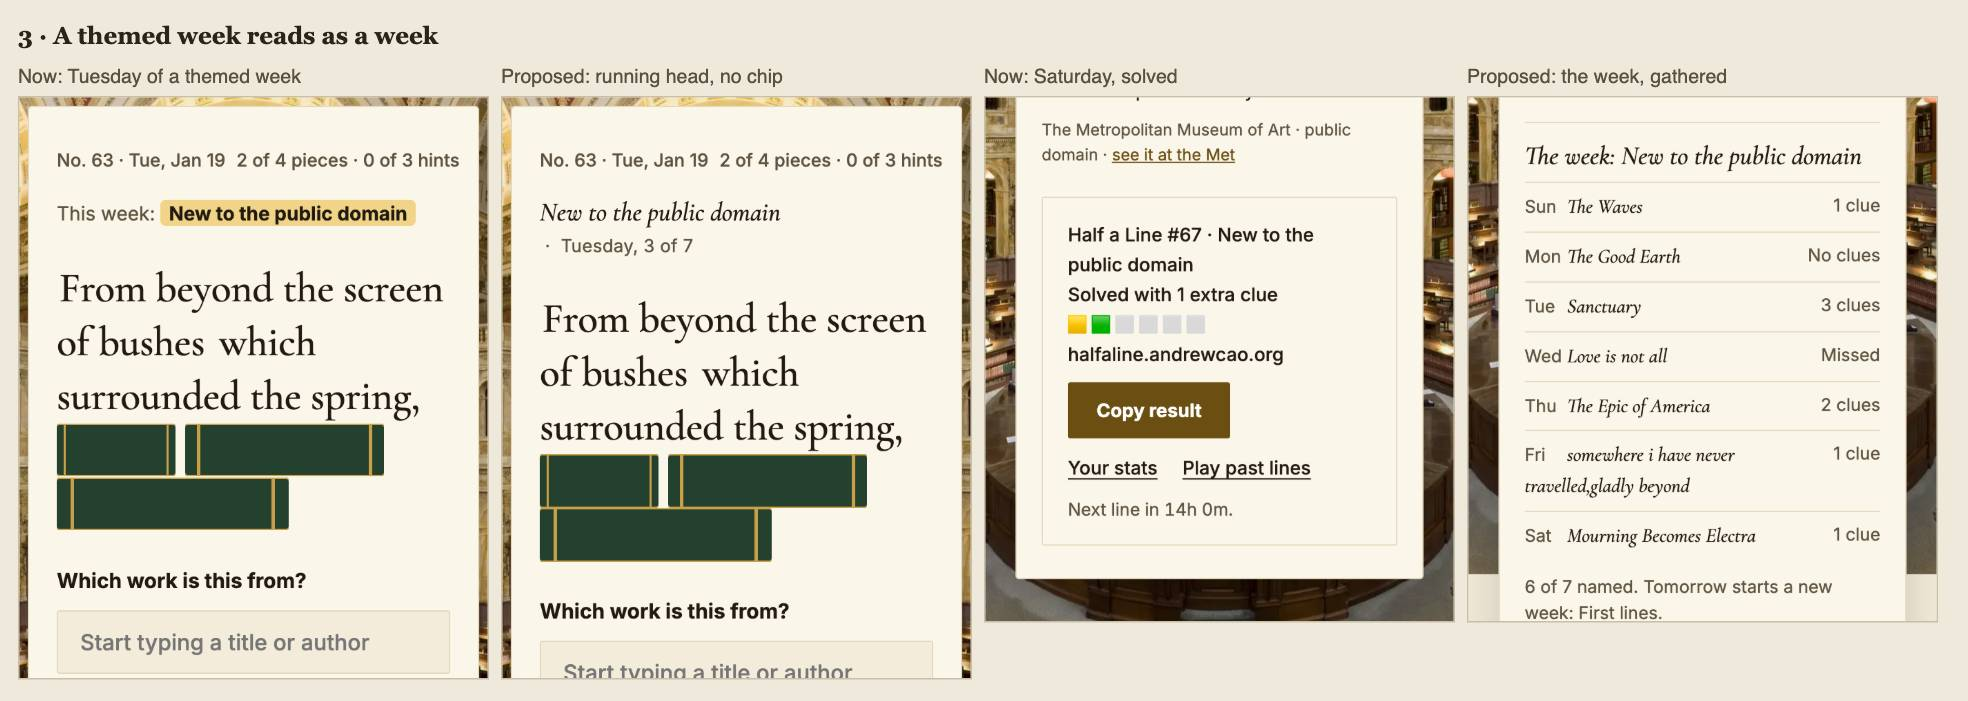
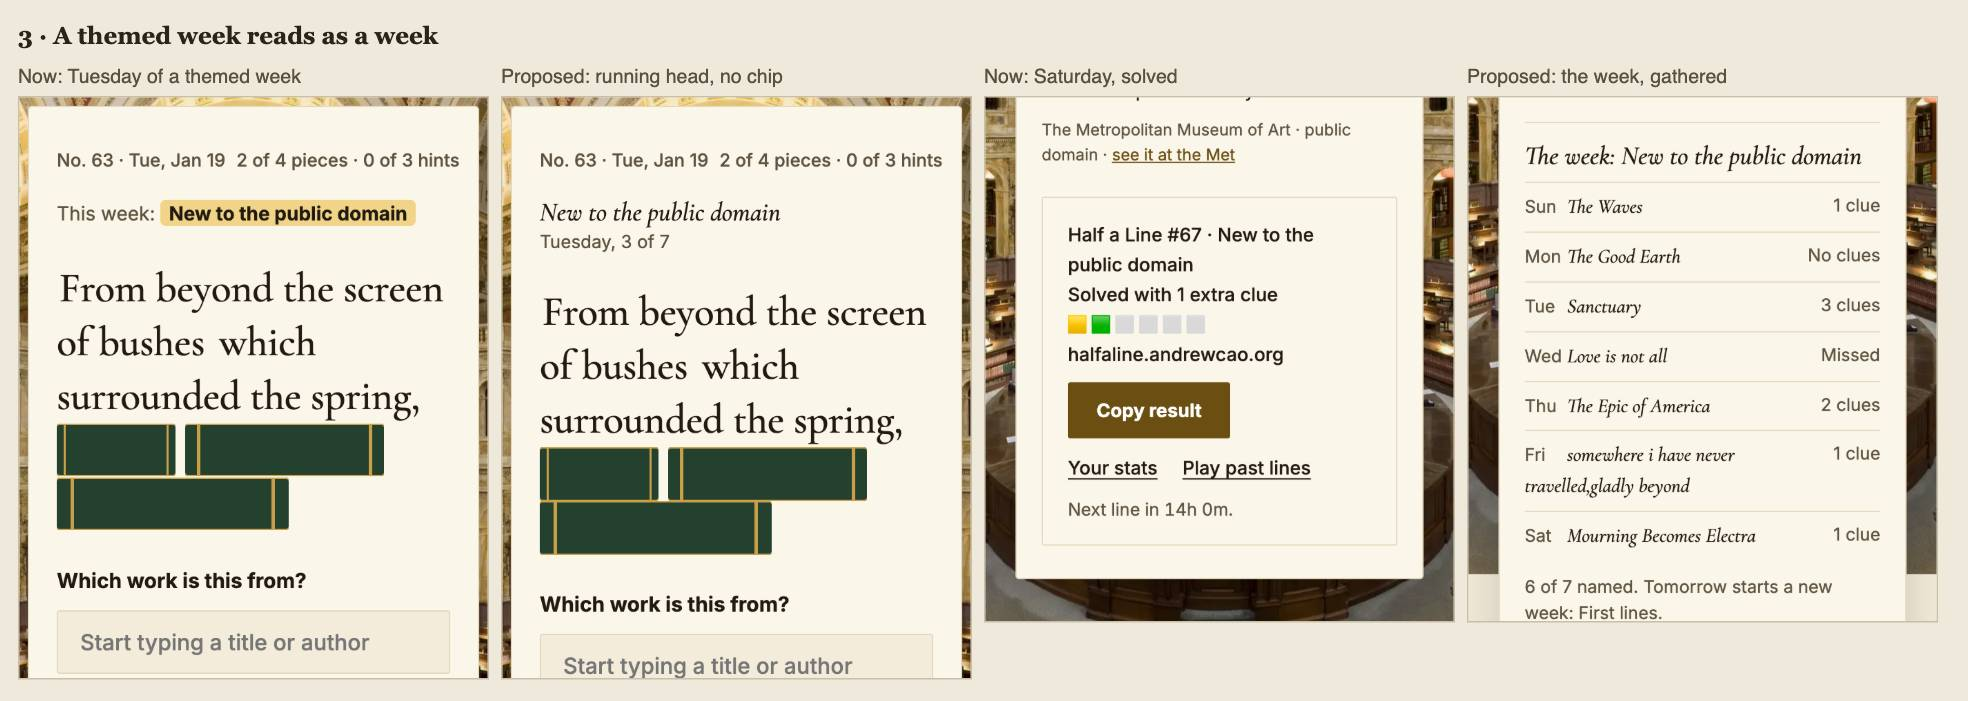
Audit 2: Fable review pass. New item 4 (page left open past midnight stays on yesterday), focus fix folded into tidy-up, accurate byline, cleaner themed-week mockup

diff --git a/docs/fable-audit-2-2026-11.md b/docs/fable-audit-2-2026-11.md
@@ -1,13 +1,13 @@
 # Half a Line: second craft audit
 
-22 November 2026, by Claude (Fable). Stage 1: a proposal for Andrew to pick from. Nothing in `site/` has changed.
+22 November 2026, by Claude: played and drafted on Opus, then reviewed, re-tested and revised on Fable the same day. Stage 1: a proposal for Andrew to pick from. Nothing in `site/` has changed.
 
 Builds on `docs/fable-audit-2026-11.md` (20 Nov; all six craft items and the four content fixes are live) and does not repeat it, `docs/visual-assessment-2026-11.md` or `docs/ux-assessment-2026-11.md`.
 
-**How it was checked:** a local copy of `main` (`f48ec43`, the commit tagged `published`), played in headless Chrome at 375 × 812 and 1440 × 900, with the clock set to pretend days: today (day 5), 17–23 January 2027 (the first themed week), and that Saturday with the whole week played. Library, Coast, Night and High contrast, light and dark; keyboard only; reduced motion on. Wrong guesses, Next clue, running out of clues, a win, the bonus, the share text, Stats, Settings. The title box was tested with 38 things a player might type. **Not checked:** a real phone, a screen reader, Windows High Contrast.
+**How it was checked:** a local copy of `main` (`f48ec43`, the commit tagged `published`), played in headless Chrome at 375 × 812 and 1440 × 900, with the clock set to pretend days: today (day 5), 17–23 January 2027 (the first themed week), and that Saturday with the whole week played. Library, Coast, Night and High contrast, light and dark; keyboard only; reduced motion on. Wrong guesses, Next clue, running out of clues, a win, the bonus, the share text, Stats, Settings, and a page left open past midnight. The title box was tested with 38 things a player might type. **Not checked:** a real phone, a screen reader, Windows High Contrast.
 
 ## Verdict
-The game now looks finished; what's left is how it *answers* you. The title box rejects ordinary misspellings and everyday names, a wrong guess is acknowledged at the bottom of the card, the last guess arrives without warning, and a themed week never feels like a week. All of it is small, and none of it is a new feature.
+The game now looks finished; what's left is how it *answers* you. The title box rejects ordinary misspellings and everyday names, a wrong guess is acknowledged at the bottom of the card, the last guess arrives without warning, a page left open overnight never shows the new line, and a themed week never feels like a week. All of it is small, and none of it is a new feature.
 
 ## Proposal, ranked
 
@@ -16,11 +16,11 @@ The game now looks finished; what's left is how it *answers* you. The title box 
 | 1 | **The title box forgives typos and everyday names.** When nothing matches, offer the closest title ("Closest match: Frankenstein"). Accept common short names ("Alice in Wonderland", "Huck Finn", "War & Peace", "Tale of 2 Cities"). List titles that *start* with what you typed before author matches. | Of 38 test entries, these found nothing and showed "No title matches": frankenstien, mary shelly, pride and predjudice, odysey, alice in wonderland, huck finn, war & peace, tale of 2 cities. A player who knows the answer and is told "no match" feels the game is wrong. Also "anna" lists *Black Beauty* (Anna Sewell) above *Anna Karenina*. A spelling slip is not counted as a wrong guess today, and still wouldn't be. Mockup: `docs/mockups/shots/q-title-box.jpg`. | **Strong**: fixes a real flaw, no new look. |
 | 2 | **A wrong guess answers where you're looking, and the last guess is named.** Show "Not *Dracula*. A new hint is above." directly under the title box, not at the bottom of the card below the easy-mode link. When the clues run out, the label reads "Last guess. Which work is this from?" | Today the only sign of a wrong guess is a small grey "Not Dracula" under "Too hard?". And when "Next clue" disappears, nothing says the next wrong guess ends the game: in testing, the fifth wrong guess went straight to "Not this time." Losing without warning is the sharpest moment to get wrong. Mockup: `q-wrong-and-last-guess.jpg`. | **Strong** |
 | 3 | **A themed week reads as a week.** Replace the yellow highlighted "This week: **New to the public domain**" with a quiet running head in the look's italic: "*New to the public domain* · Tuesday, 3 of 7". On Saturday's solved screen, gather the week: seven days, seven works, your result for each, and "Tomorrow starts a new week: First lines." | The highlighted pill is one of the no-vibe-coded tells, and its yellow is the yellow that means "new piece" in the game, so it reads like a clue. More importantly, nothing tells a player where they are in the week or rounds it off; the theme only shows in Archive headings. The Saturday list is the one reward that spans days, and a reason to come back on Sunday. Mockup: `q-themed-week.jpg`. | **Strong** for the running head; **Lean** for the Saturday list (small, but new). |
-| 4 | **Keyboard focus lands on the answer.** After a win or a loss, move focus to the work's title; after the bonus, to the note. | Measured: after the winning guess and after choosing a bonus word, keyboard focus falls back to the page itself, so a keyboard player must Tab from the top again. (Screen readers already hear "Correct: Frankenstein.") | **Strong**: tiny, invisible fix. |
+| 4 | **The new line arrives by itself.** When midnight passes, or the player comes back to an open tab or the Home Screen app, a finished screen offers “Today’s line is ready” and Today shows the new day. | Tested with the clock: solve at 11:58 pm, wait, and at 12:08 am the page still shows yesterday’s line, and the countdown has restarted at “Next line in 23h 52m”, which is false; the new line is already there. Phones keep tabs and Home Screen apps open for days, so a returning player can meet yesterday’s screen and a wrong clock. | **Strong**: a real fault on the return visit. |
 | 5 | **Your streak on the solved screen.** Above "Next line in 14h", one line: "3 days in a row." (only when the streak is 2 or more). | The streak is the main thing that pulls people back to a daily game, and here it lives only on the Stats page. One plain line, no flame or badge. | **Lean**: some players dislike streak pressure; it shows only to those who have one. |
 | 6 | **Right author, wrong work.** "Not *Bleak House*, though you have the right author." Still counts as a wrong guess. | Shakespeare has 19 works in the list, Dickens 10, the Brontës 5, Poe 4. Naming the right writer is half an "aha", and today it earns the same grey "Not …" as a wild guess. | **Lean**: a small free nudge, so the game gets slightly easier. |
 | 7 | **Share text with a taste of the line.** Add the opening pieces the receiver will see anyway, hidden ones as bars, and a full `https://` link (example below). | As received now, the message is a number, a score and squares; nothing makes a friend want to try. The opening pieces are exactly what everyone sees before guessing, so nothing is spoiled. A full link makes more apps show a preview card. | **Toss-up**: longer text, and long lines need trimming. New wording under Andrew's name. |
-| 8 | **Finish one corner per look, and hide hidden words in High Contrast.** The suggestion list under the title box has 10 px corners next to a 2 px box in Library; the Settings look tiles use 14, 9, 10 and 8 px in every look; the skip link 8 px. Set all to the look's own two sizes. Add one rule so Windows High Contrast can't show hidden pieces. | The first audit asked for one radius per look; these are the last ones (measured on every visible element in all four looks). The High Contrast leak was flagged on 19 Nov and is still open. | **Strong**: tidy-up; it just reads as more finished. |
+| 8 | **Tidy-up: corners, keyboard focus, High Contrast.** The suggestion list under the title box has 10 px corners next to a 2 px box in Library; the Settings look tiles use 14, 9, 10 and 8 px in every look; the skip link 8 px. Set all to the look's own two sizes. After a win or the bonus, move keyboard focus to the work's title or the note. Add one rule so Windows High Contrast can't show hidden pieces. | The first audit asked for one radius per look; these are the last ones (measured on every visible element in all four looks). Measured: after the winning guess and after the bonus, keyboard focus falls back to the page, so a keyboard player must Tab from the top again. The High Contrast leak was flagged on 19 Nov and is still open. | **Strong**: tidy-up; it just reads as more finished. |
 
 Each item is one session's work: plain HTML/CSS/JS, no new services or tracking, no change to `EPOCH` or the `half-a-line-v3` key. Items 1, 2 and 4 touch only `app.js` plus a few lines of CSS; 3 and 5 read progress that is already saved.
 
@@ -41,7 +41,7 @@ https://halfaline.andrewcao.org
 ```
 
 ## New wording under Andrew's name (needs his yes)
-Only for the items he picks, and added to `docs/for-andrew-to-read.md` when built: "Closest match" (1); "Not *X*. A new hint is above." and "Last guess." (2); the running head and "Tomorrow starts a new week: …" (3); "3 days in a row." (5); "though you have the right author" (6); the share text (7). About five minutes of reading in all.
+Only for the items he picks, and added to `docs/for-andrew-to-read.md` when built: "Closest match" (1); "Not *X*. A new hint is above." and "Last guess." (2); the running head and "Tomorrow starts a new week: …" (3); "Today's line is ready" (4); "3 days in a row." (5); "though you have the right author" (6); the share text (7). About five minutes of reading in all.
 
 ## Not recommended
 - **A celebration on a win** (confetti, sound, a bigger animation). The pieces lifting and the title arriving are the moment; more would undo the visual pass.
@@ -53,7 +53,7 @@ Only for the items he picks, and added to `docs/for-andrew-to-read.md` when buil
 - **Showing the painting of the week only once a week.** It is the week's plate; repeating it daily is consistent, not noise.
 
 ## Checks run for this audit
-Played as above; no console errors on any page. Measured: focus after a win and after the bonus (falls back to the page); clue count before a loss (no warning); corner sizes of every visible element in all four looks; 38 title-box entries against the 302 titles. Mockups were made by changing a local page in the browser only, never `site/`.
+Played as above; no console errors on any page. Measured: a page left open from 11:58 pm to the next morning (stays on yesterday; countdown restarts); focus after a win and after the bonus (falls back to the page); clue count before a loss (no warning); corner sizes of every visible element in all four looks; 38 title-box entries against the 302 titles. Mockups were made by changing a local page in the browser only, never `site/`.
 
 ## Stage 2
 Build only what Andrew picks, on a branch, as a pull request. Nothing merges or publishes without his yes.
